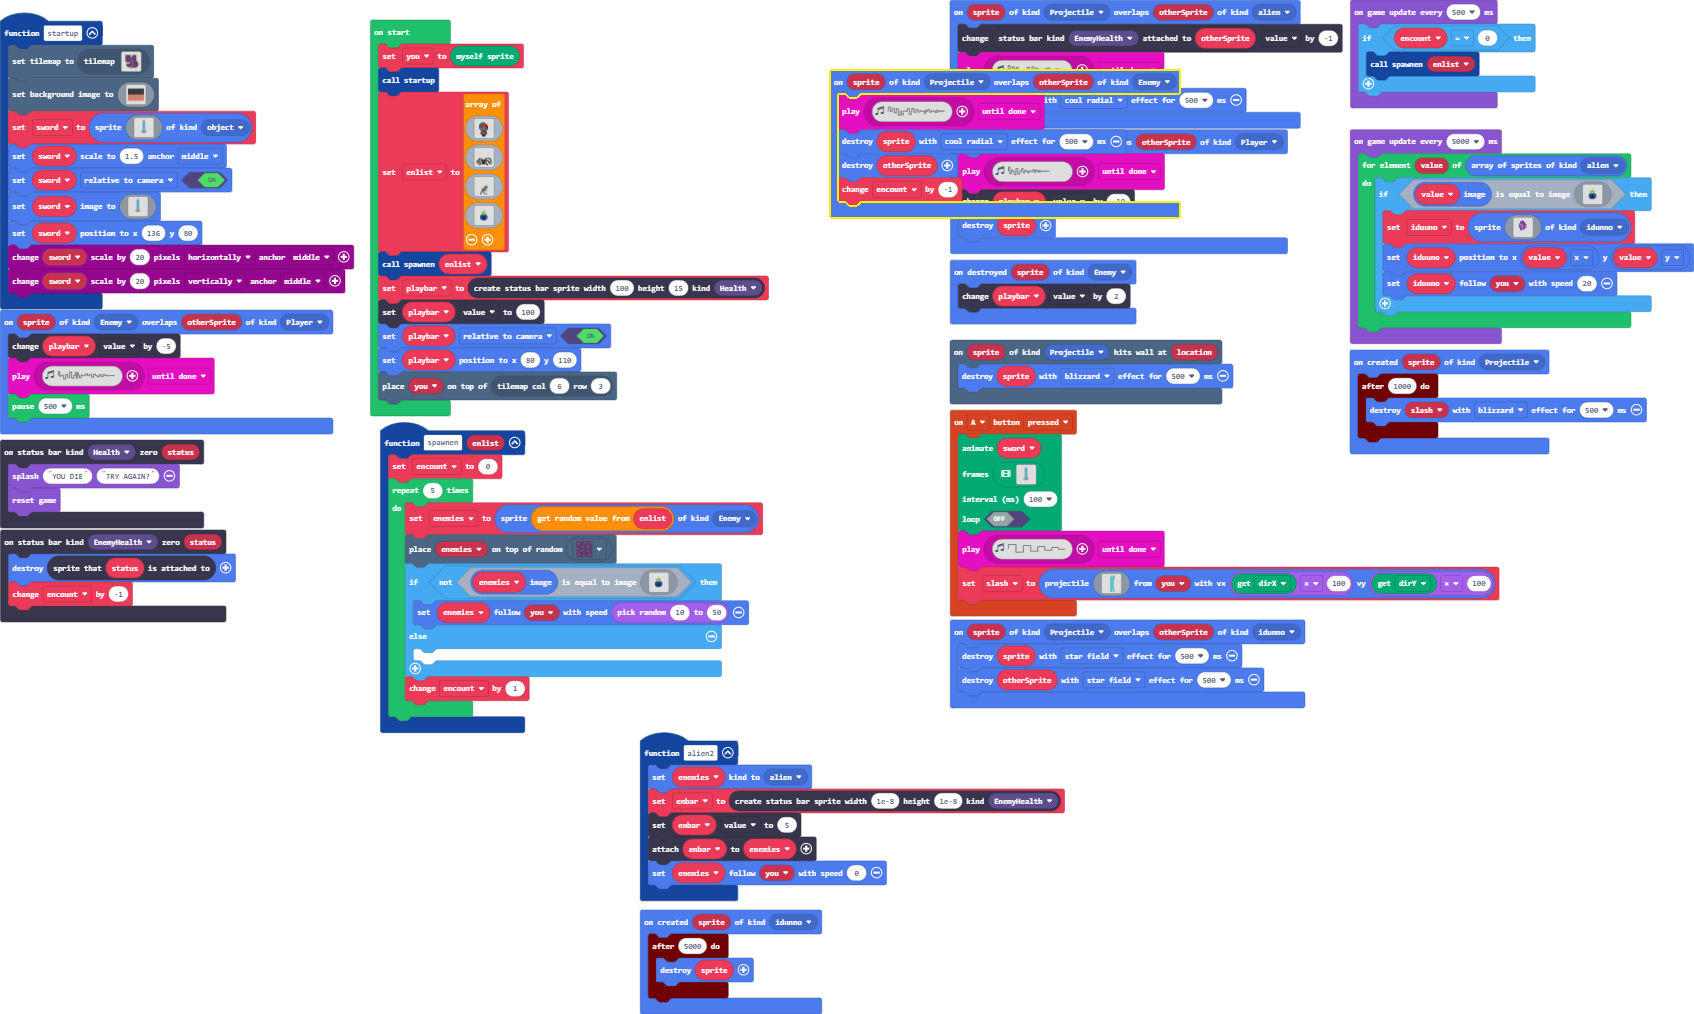
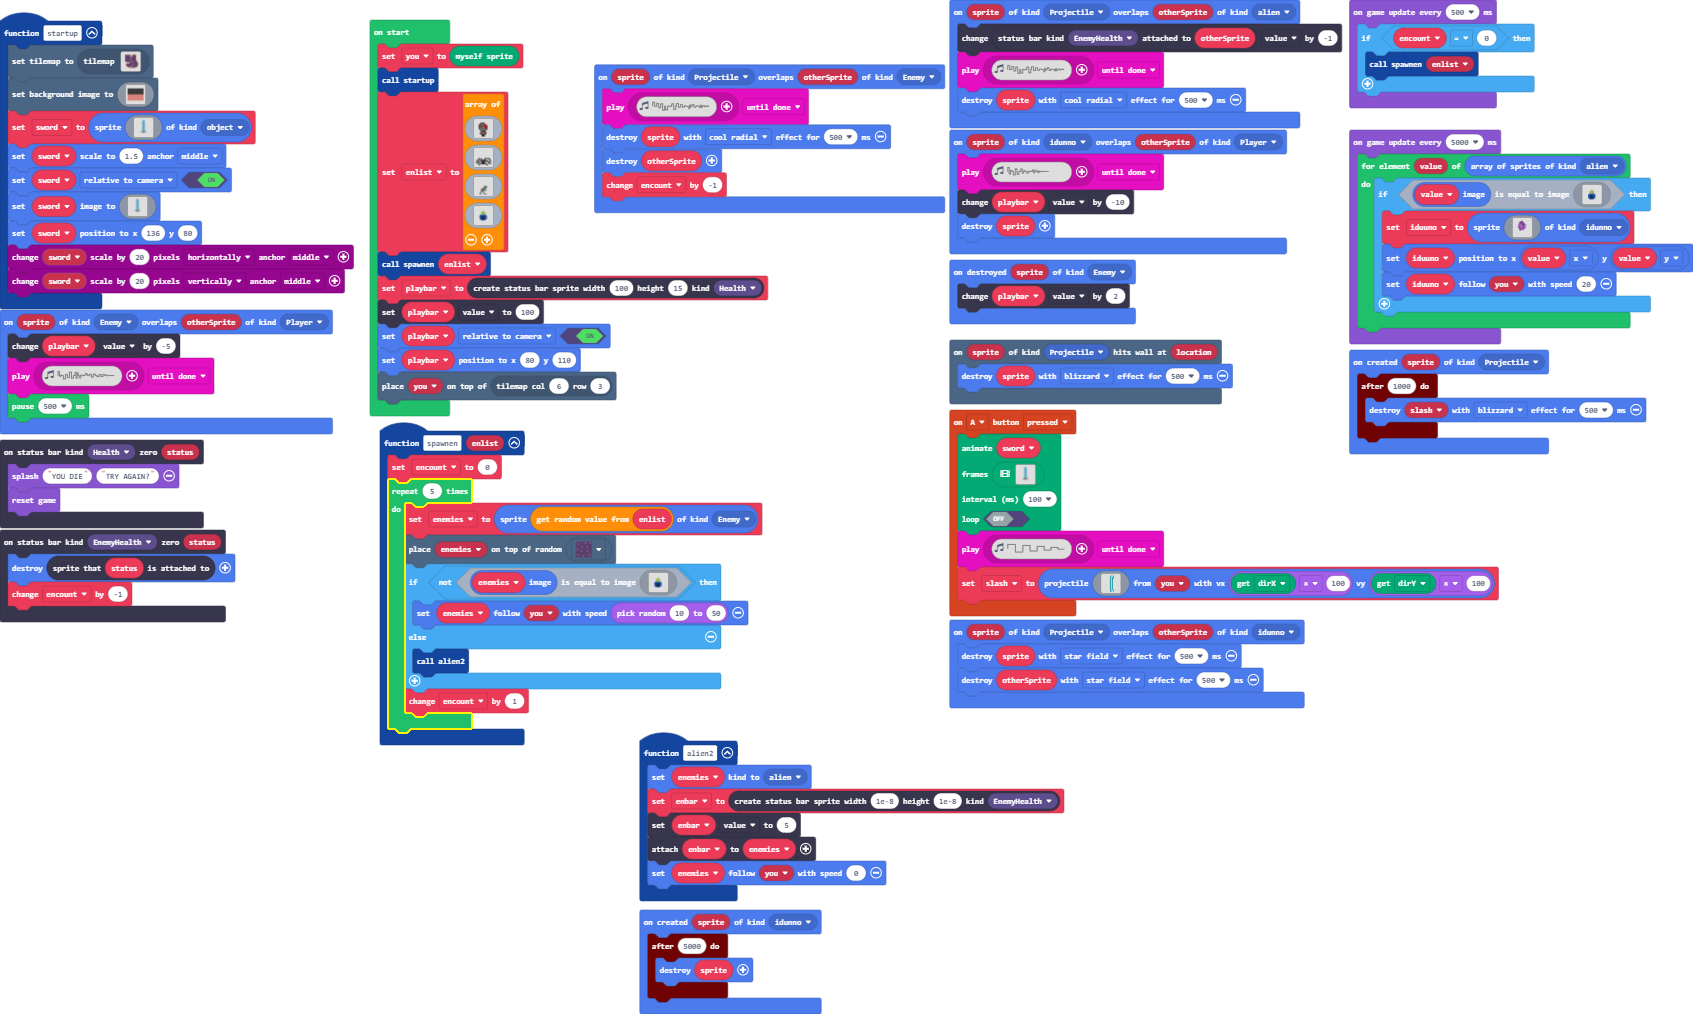
fixed alien

diff --git a/main.ts b/main.ts
@@ -667,7 +667,7 @@ function spawnen (enlist: Image[]) {
         if (!(enemies.image.equals(assets.image`myImage`))) {
             enemies.follow(you, randint(10, 50))
         } else {
-        	
+            alien2()
         }
         encount += 1
     }
